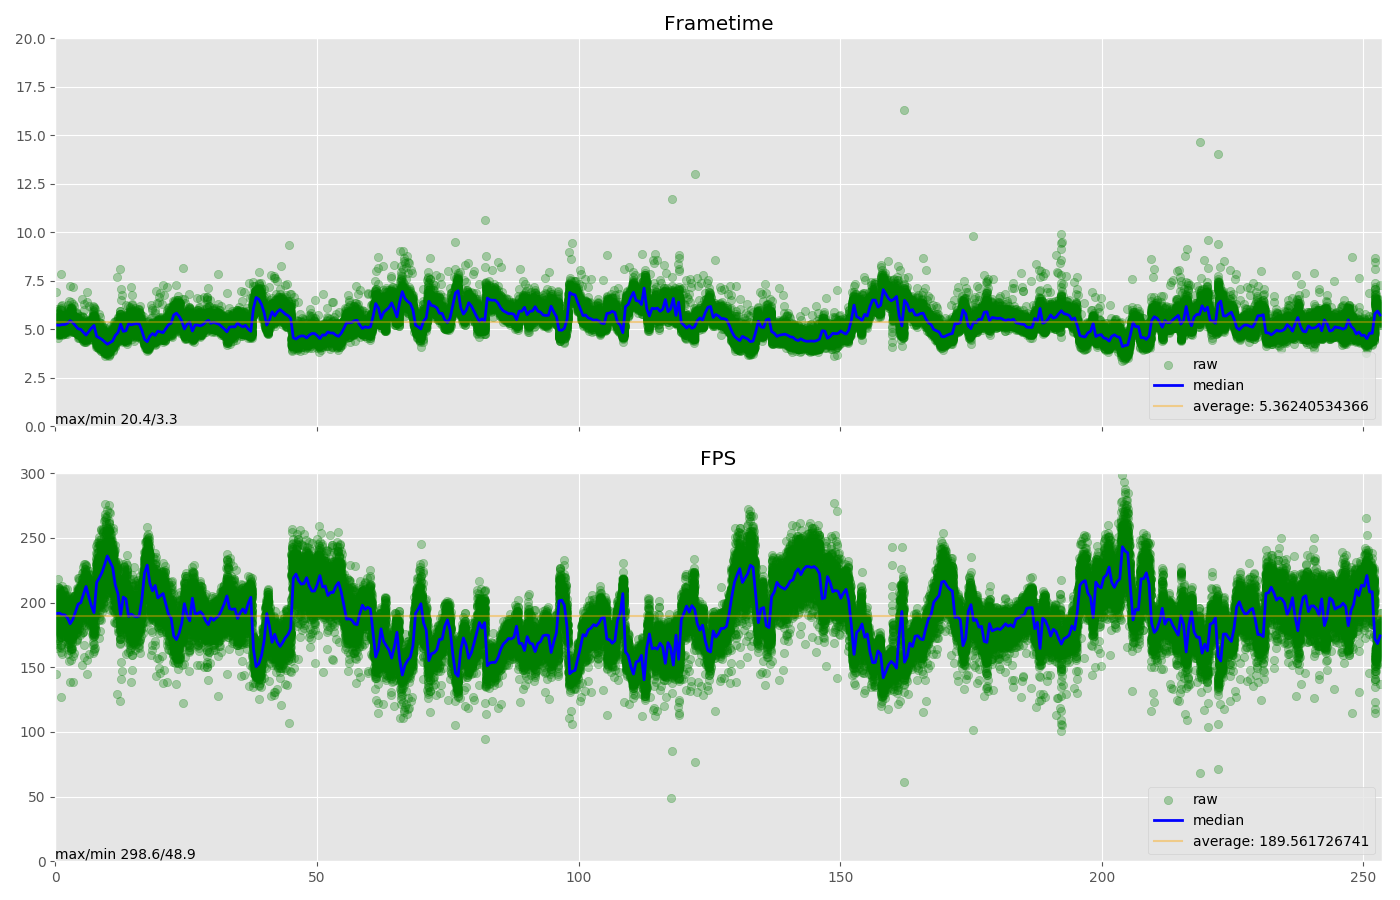
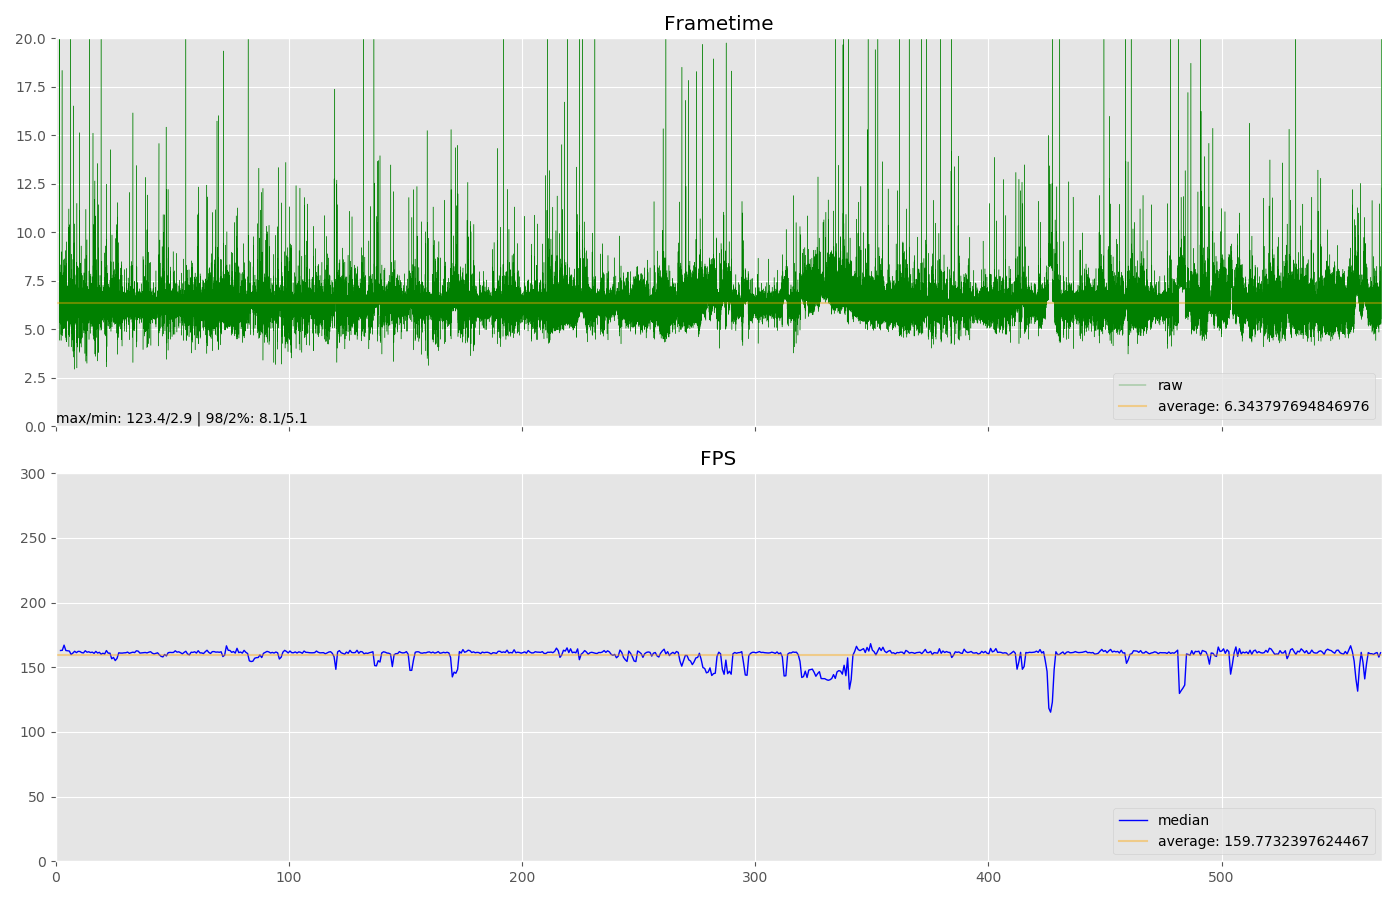
enhanced with cli argument, better drawings

diff --git a/presentmon.py b/presentmon.py
@@ -1,46 +1,62 @@
 # You do not need that many import statements, so we just import
 # numpy and matplotlib using the common alias 'np' and 'plt'.
+import argparse
 import numpy as np
 import matplotlib.pyplot as plt
 import tkinter as tk
 from tkinter import filedialog
+from enum import Enum
+
+class PlotType(Enum):
+    ALL = 0
+    RAW = 1
+    MEDIAN = 2
+
 
 plt.style.use('ggplot')
 
+parser = argparse.ArgumentParser(description='Display PresentMon Data.')
+parser.add_argument('-f', '--file', help='full path of the csv file containing presentmon data')
+args = parser.parse_args()
 
-# renders the scatter and the median
-def plot_median_scatter(ax, times, values, bins):
+# renders the raw values
+def plot_raw(ax, times, values):
+    raw, = ax.plot(times, values, 'g-', lw=0.3, label='raw', antialiased=1)
+    return raw
+
+# renders the median
+def plot_median(ax, times, values, bins):
     x_new = np.linspace(times.min(), times.max(), bins)
-
     delta = x_new[1] - x_new[0]
     idx = np.digitize(times, x_new)
-
     running_median = [np.median(values[idx == k]) for k in range(bins)]
-
-    scatter, = ax.plot(times, values, 'g-', lw=0.3, label='raw', antialiased=1)
     median, = ax.plot(x_new - delta / 2, running_median, 'b-', lw=1, label='median', antialiased=1)
-    return scatter, median
-
+    return median
 
 # renders the average line and min/max text
-def plot_min_max_med(ax, values):
+def plot_min_max_med(ax, values, max_min):
     max_ms = "{0:.1f}".format(max(values))
     min_ms = "{0:.1f}".format(min(values))
     top_98 = "{0:.1f}".format(np.nanquantile(values, 0.98))
     top_02 = "{0:.1f}".format(np.nanquantile(values, 0.02))
-    
-    ax.text(0, 0, 'max/min ' + max_ms + '/' + min_ms + ' | 98/02% ' + top_98 + '/' + top_02, verticalalignment='bottom')
     average = ax.axhline(np.mean(values), label='average: ' + str(np.mean(values)),
                          color='orange',
                          alpha=0.4)
+    if max_min:
+        ax.text(0, 0, 'max/min: ' + max_ms + '/' + min_ms + ' | 98/2%: ' + top_98 + '/' + top_02, verticalalignment='bottom')
     return average
 
 
 # renders everything
-def plot(ax, times, values, bins):
-    scatter, median = plot_median_scatter(ax, times, values, bins)
-    average = plot_min_max_med(ax, values)
-    ax.legend(loc='lower right', handles=[scatter, median, average], scatterpoints=1)
+def plot(ax, times, values, bins, plottype):
+    handles = []
+    if plottype in {PlotType.RAW, PlotType.ALL}:
+        handles.append(plot_raw(ax, times, values))
+        handles.append(plot_min_max_med(ax, values, True))
+    if plottype in {PlotType.MEDIAN, PlotType.ALL}:
+        handles.append(plot_median(ax, times, values, bins))
+        handles.append(plot_min_max_med(ax, values, False))
+    ax.legend(loc='lower right', handles=handles, scatterpoints=1)
     return
 
 # With matplotlib we define a new subplot with a certain size (10x10)
@@ -49,11 +65,15 @@ fig, axarr = plt.subplots(2, sharex=True, figsize=(14, 9), dpi=100)
 # number of bins for median
 total_bins = 750
 
-# select the presentmon csv-file
-root = tk.Tk()
-root.withdraw()
-file_path = filedialog.askopenfilename(initialdir='~', filetypes=(('Presentmon Files', '*.csv'), ('All Files', '*')))
-root.destroy()
+# if filepath was passed as argument
+if args.file:
+    file_path = args.file
+# otherwise select the presentmon csv-file via file dialogue
+else:
+    root = tk.Tk()
+    root.withdraw()
+    file_path = filedialog.askopenfilename(initialdir='~', filetypes=(('Presentmon Files', '*.csv'), ('All Files', '*')))
+    root.destroy()
 if not file_path:
     exit(0)
 
@@ -81,16 +101,15 @@ for tis in y:
     fps.append(1 / (tis / 1000))
 
 # render the frametime
-plot(axarr[0], x, y, total_bins)
+plot(axarr[0], x, y, total_bins, PlotType.RAW)
 axarr[0].set_title("Frametime")
 axarr[0].set_ylim([0, 20])
 axarr[0].set_xlim([0, max(x)])
 
 # render the fps
-plot(axarr[1], x, np.asarray(fps), total_bins)
+plot(axarr[1], x, np.asarray(fps), total_bins, PlotType.MEDIAN)
 axarr[1].set_title("FPS")
 axarr[1].set_ylim([0, 300])
-
 
 # show the plots
 plt.tight_layout()
